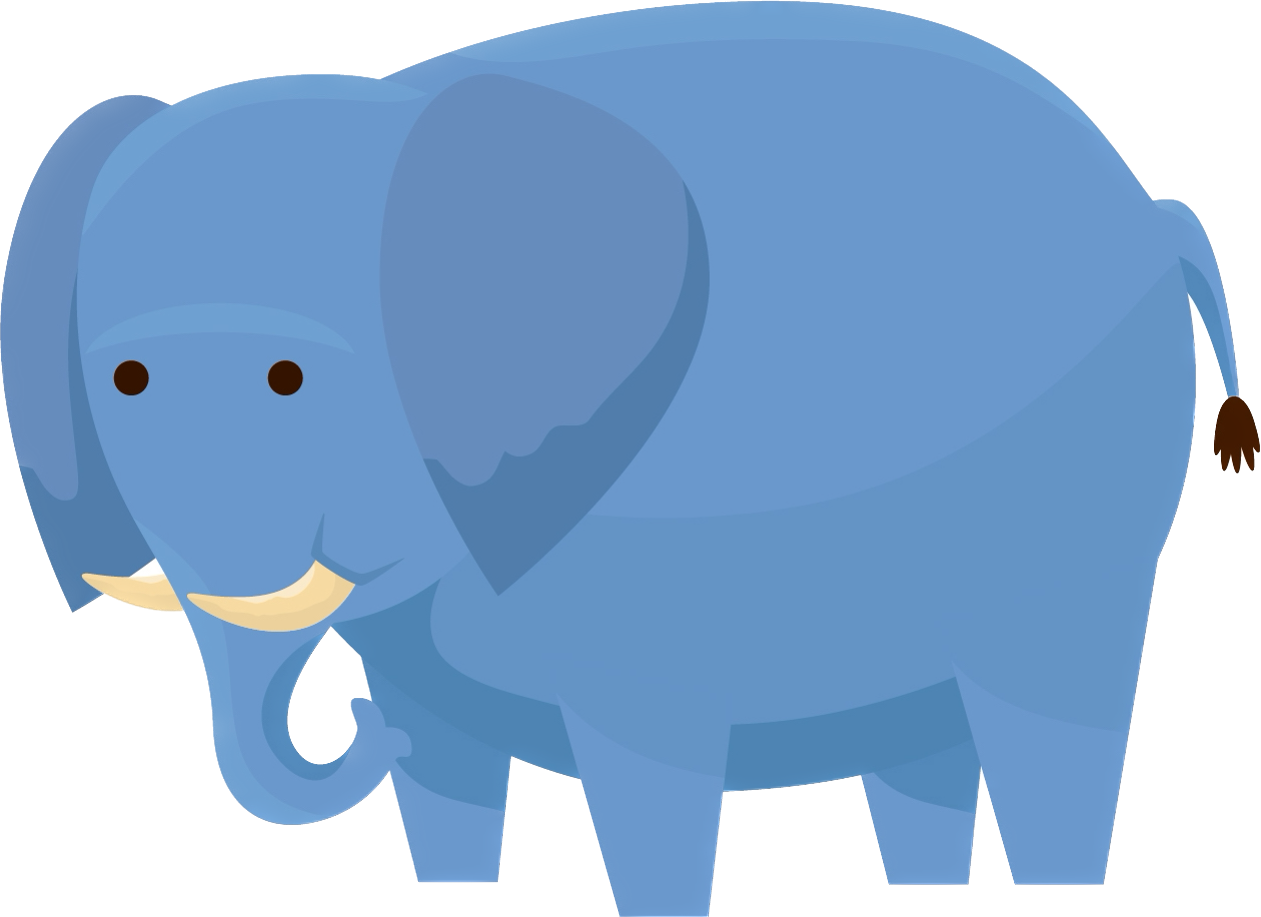
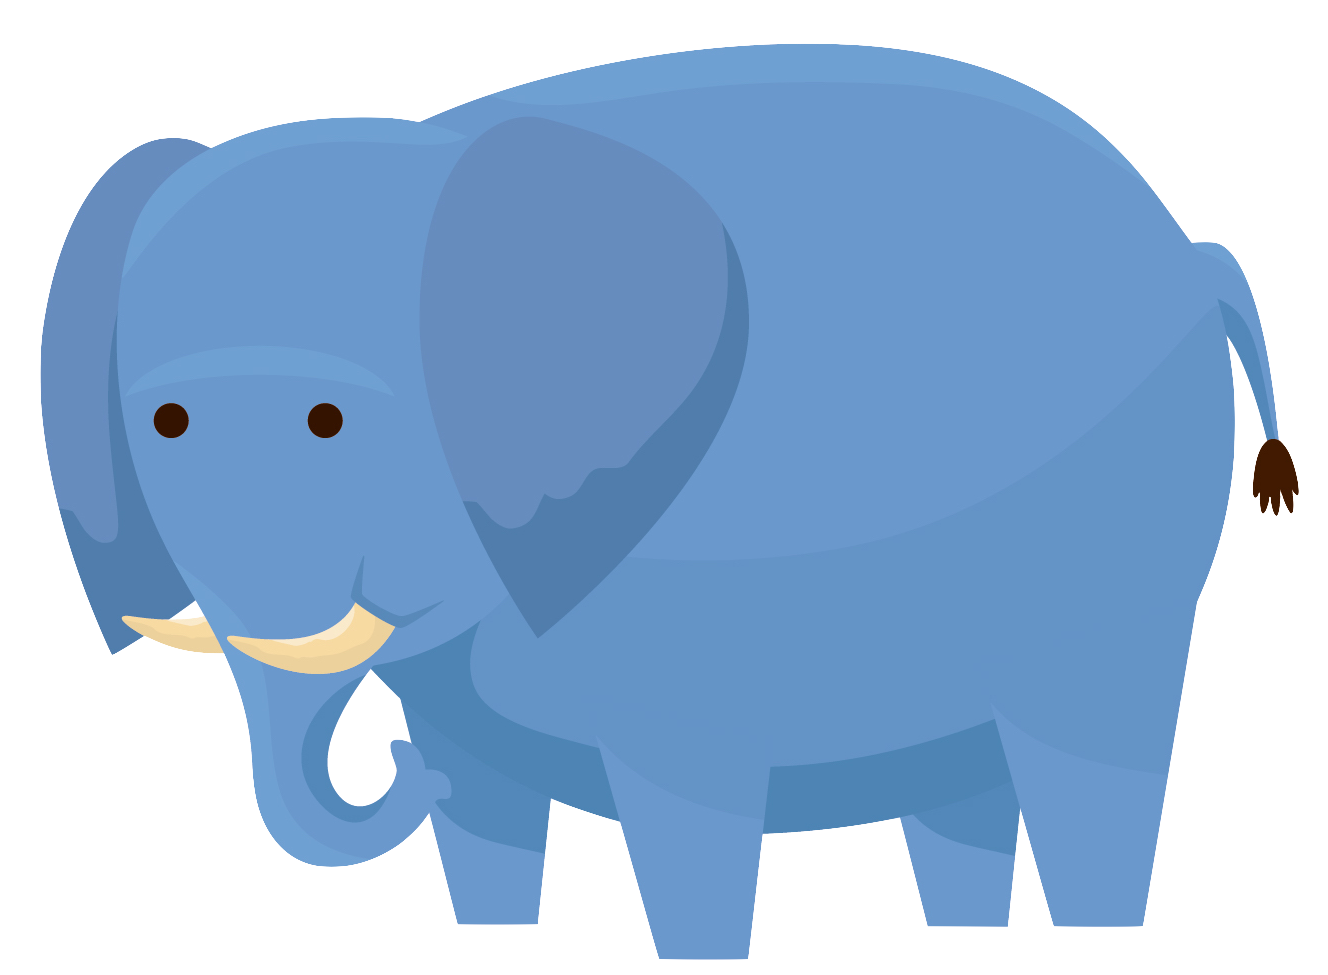
refactor: adjust styling for non-game area divs

diff --git a/assets/css/style.css b/assets/css/style.css
@@ -19,7 +19,7 @@ body {
 .logo-and-title {
     margin: auto;
     padding: 10px 0;
-    width: 30%;
+    width: 25%;
 }
 
 .logo-and-title > img {
@@ -33,13 +33,13 @@ body {
     flex-direction: row;
     justify-content: center;
     align-items: center;
-    height: 600px;
+    height: 650px;
 }
 #game-area {
     flex-grow:2;
     width: 100%;
     height: 100%;
-    background-color: #BADDE9;
+    background-color: #20346C;
     border-radius: 10px;
 /* Creating an embossed effect - solution from Stack Overflow: https://stackoverflow.com/questions/24744776/creating-bevel-effect-for-content-box */
     box-shadow: inset 5px 5px 8px 1px rgba(255,255,255,0.5), inset -3px -7px 5px 2px rgba(32,52,108,0.5);
@@ -59,23 +59,23 @@ body {
 }
 
 .game-control-divs h2{
-   margin: 10px 5px 5px 5px;
+   margin: 1.75vmax 5px;
    font-size: 3vmax;
 }
 
 #game-info{
-    height:25vmax;
+    height:30vmax;
     text-align: center;
     text-align: center;
     font-size: 2vmax;
 }
 
 #game-info p{
-    margin: 0.75vmax  5px;
+    margin: 1.5vmax  5px;
 }
 
 #start-game-button {
-    font-size: 1.5vmax;
+    font-size: 1.75vmax;
     font-weight: bold;
     color: #BADDE9;
     background-color: #20346C;
@@ -84,15 +84,6 @@ body {
     padding: 10px;
     font-family: 'Raleway', sans-serif;
     box-shadow: 0 2px 2px rgba(0,0,0,0.7), inset 3px 3px 3px 0 rgba(255,255,255,0.7), inset -3px -3px 3px 0 rgba(255,255,255,0.5);
-}
-#player-info-area {
-    display: flex;
-    flex-direction: column;
-    flex-grow: 1;
-    width: 30%;
-    margin: 0 2%;
-    justify-content: center;
-    align-items: center;
 }
 
 #game-status-div{
@@ -107,16 +98,27 @@ body {
 #game-status-div p{
     margin-top: 5px;
 }
+
+#player-info-area {
+    display: flex;
+    flex-direction: column;
+    flex-grow: 1;
+    width: 30%;
+    margin: 0 2%;
+    justify-content: center;
+    align-items: center;
+}
+
 #scores-area {
-    height:11vmax;
+    height:12vmax;
     width:100%;
 }
 
 .player-scores-title {
     margin: 1.6vmax 0 0 1.5vmax;
     text-align: center;
-    font-size: 1.5vmax;
-    line-height: 40px;
+    font-size: 1.6vmax;
+    line-height: 3.2vmax;
     display: inline-block;
 }
 
@@ -203,7 +205,7 @@ flex: 1 auto;
 margin: 10px 25px;
 display: grid;
 grid-template-columns: repeat(4, 20%);
-grid-template-rows: repeat(4, 125px);
+grid-template-rows: repeat(4, 135px);
 column-gap: 3.5%;
 row-gap: 15px;
 grid-template-areas:
@@ -218,7 +220,7 @@ justify-content: center;
 /* Card flip code from this site: https://dev.to/mugas/flip-cards-with-javascript-2ad0 */
 .card {
     display: flex;
-    background-color: #BADDE9;
+    background-color: #20346C;
     transform-style: preserve-3d;
     transition-duration: 2s;
     cursor: pointer;
@@ -237,7 +239,7 @@ justify-content: center;
     line-height: 100px;
     color: #20346C;
     border-radius: 5px;
-    border: 1px solid #20346C;
+    border: 2px solid #BADDE9;
     font-size: 4rem;
     backface-visibility: hidden;
 }
@@ -255,15 +257,16 @@ justify-content: center;
     width:100%;
     align-items: center;
     justify-content: center;
-    background-color: #20346C;
+    background-color: #BADDE9;
     border-radius: 5px;
+    border: 2px solid #E9D358;
     transform: rotateY(180deg);
     backface-visibility: hidden;
 }
 
 .card-front > img {
-    width: auto;
-    height: 90%;
+    max-width: 90%;
+    max-height: 90%;
 }
 
 .card.flip {

diff --git a/assets/js/script.js b/assets/js/script.js
@@ -40,7 +40,7 @@ document.addEventListener("DOMContentLoaded", function() {
       for (let pictureCard of pictureCards){
         let picture = document.createElement('img');
         picture.className = "animal-image"
-        picture.src = "assets/images/lion.png";
+        picture.src = "assets/images/elephant.png";
         pictureCard.appendChild(picture);
       }
      let playerInfoArea = document.getElementById("player-info-area");
